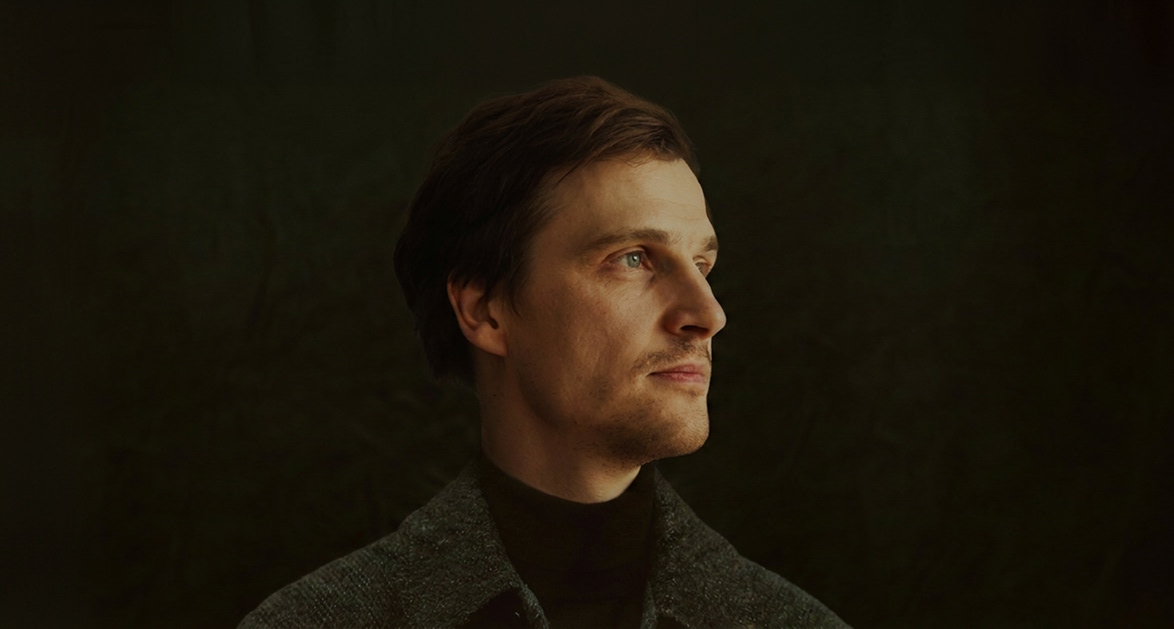
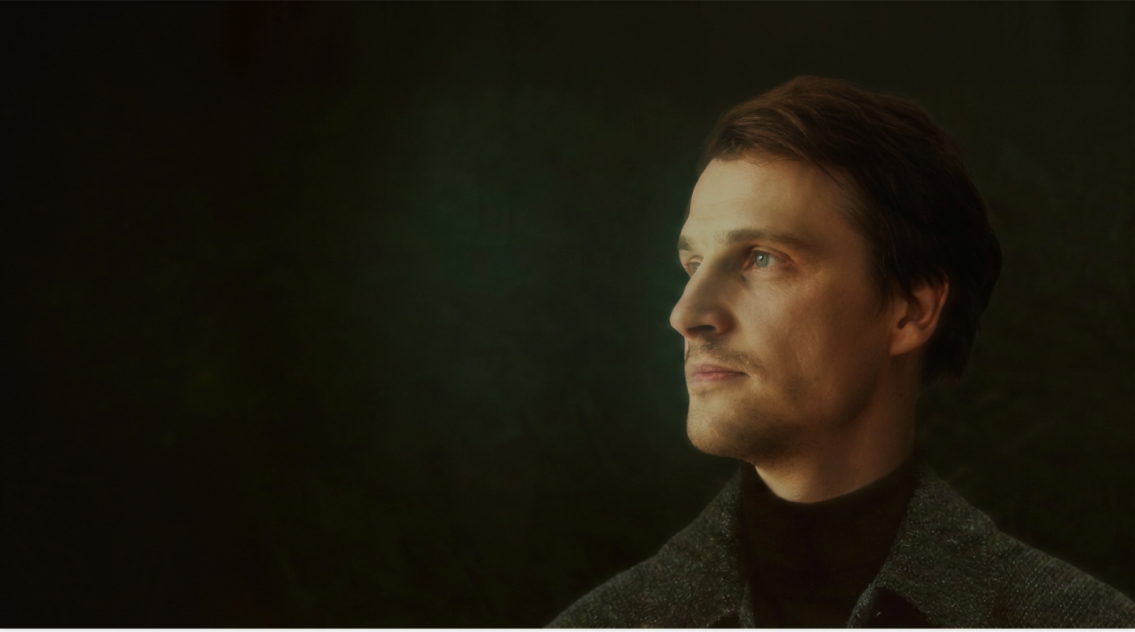
new image hero

Changed region(s): [[0.3392, 0.1208, 0.8326, 0.876], [0.0, 0.7854, 1.0, 1.0], [0.5551, 0.876, 0.5859, 0.9062]]

diff --git a/index.html b/index.html
@@ -200,7 +200,7 @@ class="hidden lg:hidden bg-white/95 backdrop-blur-xl border-b border-gray-100 ab
   </div>
 
   <!-- Light overlay -->
-  <div class="absolute inset-0 bg-black/25"></div>
+  <div class="absolute inset-0 bg-black/10"></div>
 
   <!-- Content -->
   <div class="brand-shell fade-in relative z-10 max-w-7xl mx-auto min-h-screen flex items-center px-6">